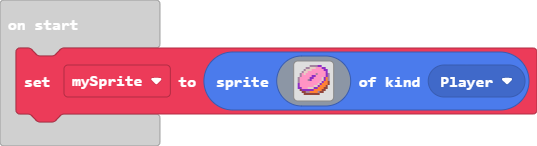
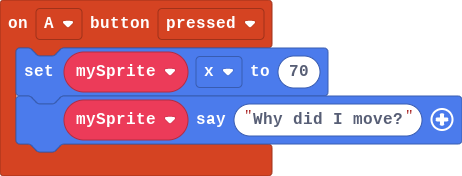
Update main.blocks, main.ts

diff --git a/main.ts b/main.ts
@@ -1,4 +1,9 @@
-let mySprite = sprites.create(img`
+controller.A.onEvent(ControllerButtonEvent.Pressed, function () {
+    mySprite.x = 70
+    mySprite.sayText("Why did I move?")
+})
+let mySprite: Sprite = null
+mySprite = sprites.create(img`
     . . . . . . b b b b a a . . . . 
     . . . . b b d d d 3 3 3 a a . . 
     . . . b d d d 3 3 3 3 3 3 a a . 
